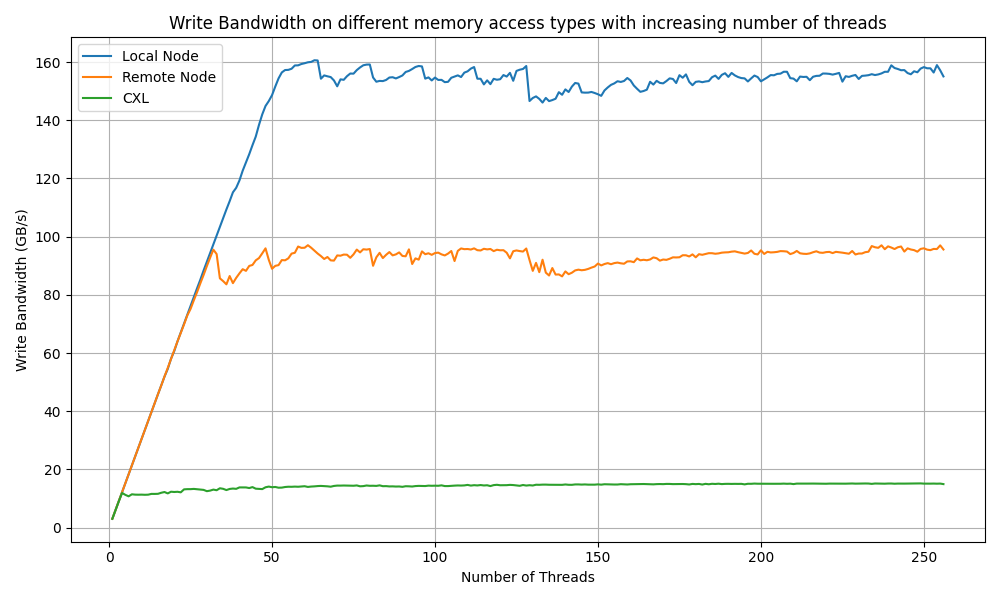
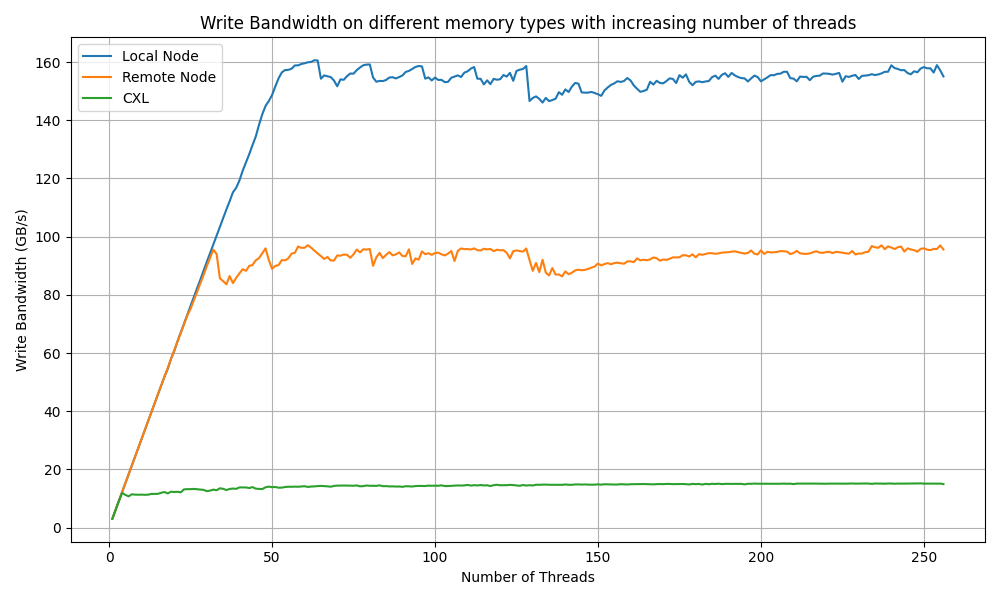
.

Changed region(s): [[0.155, 0.03, 0.899, 0.06]]

diff --git a/plot.py b/plot.py
@@ -7,28 +7,22 @@ df2 = pd.read_csv('results/remote_write_bandwidth.csv')
 df3 = pd.read_csv('results/cxl_write_bandwidth.csv')
 
 # Plot the results
-fig, axs = plt.subplots(3, figsize=(10, 12))
+plt.figure(figsize=(10, 6))
 
 # Plot first dataframe
-axs[0].bar(df1['threads'], df1['bandwidth'])
-axs[0].set_title('Write Bandwidth vs Number of Threads - Dataframe 1')
-axs[0].set_xlabel('Number of Threads')
-axs[0].set_ylabel('Write Bandwidth (GB/s)')
-axs[0].grid(True)
+plt.plot(df1['threads'], df1['bandwidth'], label='Local Node')
 
 # Plot second dataframe
-axs[1].bar(df2['threads'], df2['bandwidth'])
-axs[1].set_title('Write Bandwidth on different memory access types with increasing number of threads ')
-axs[1].set_xlabel('Number of Threads')
-axs[1].set_ylabel('Write Bandwidth (GB/s)')
-axs[1].grid(True)
+plt.plot(df2['threads'], df2['bandwidth'], label='Remote Node')
 
 # Plot third dataframe
-axs[2].bar(df3['threads'], df3['bandwidth'])
-axs[2].set_title('Write Bandwidth vs Number of Threads - Dataframe 3')
-axs[2].set_xlabel('Number of Threads')
-axs[2].set_ylabel('Write Bandwidth (GB/s)')
-axs[2].grid(True)
+plt.plot(df3['threads'], df3['bandwidth'], label='CXL')
+
+plt.title('Write Bandwidth on different memory types with increasing number of threads')
+plt.xlabel('Number of Threads')
+plt.ylabel('Write Bandwidth (GB/s)')
+plt.legend()
+plt.grid(True)
 
 plt.tight_layout()
 plt.savefig('results/write_bandwidth.png')
